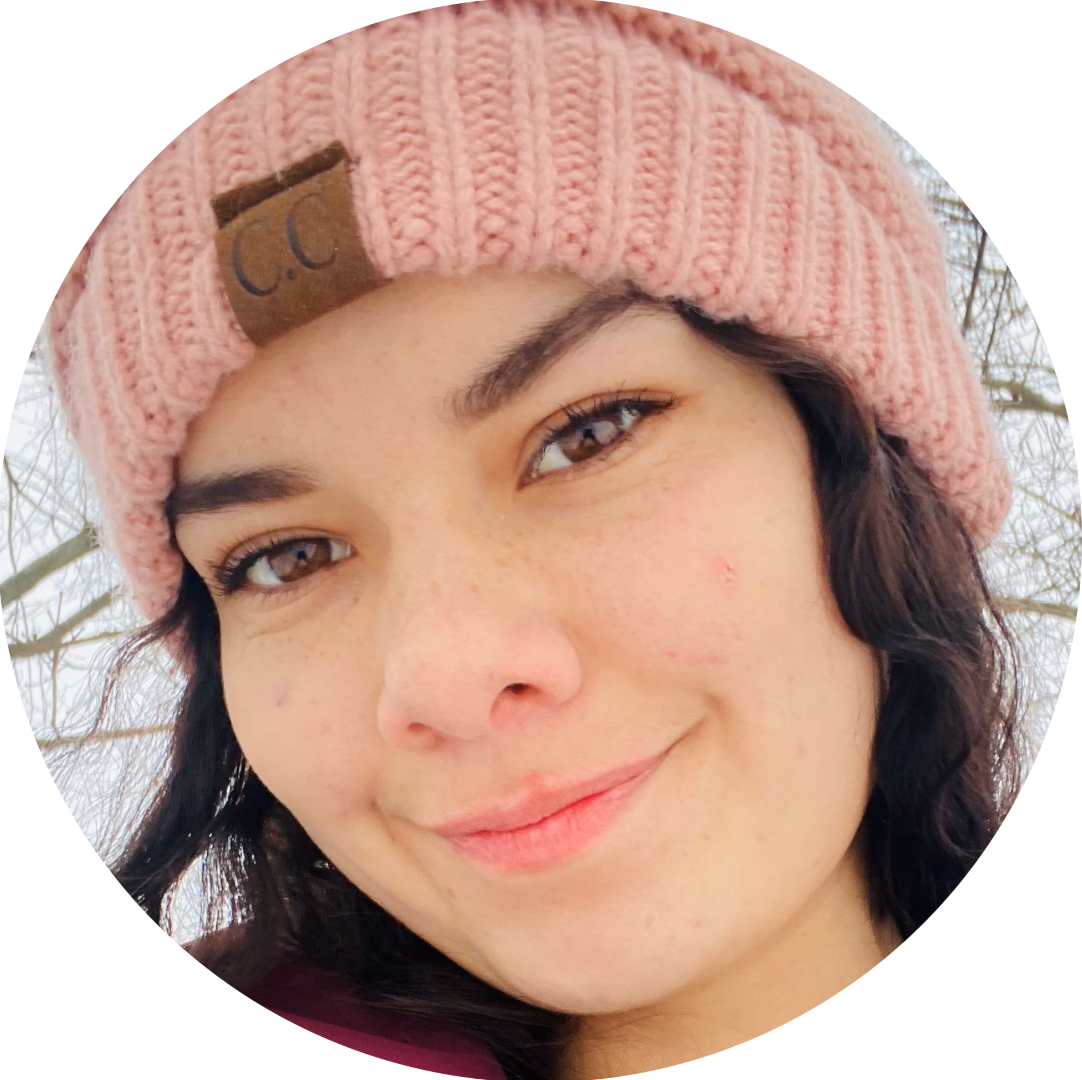
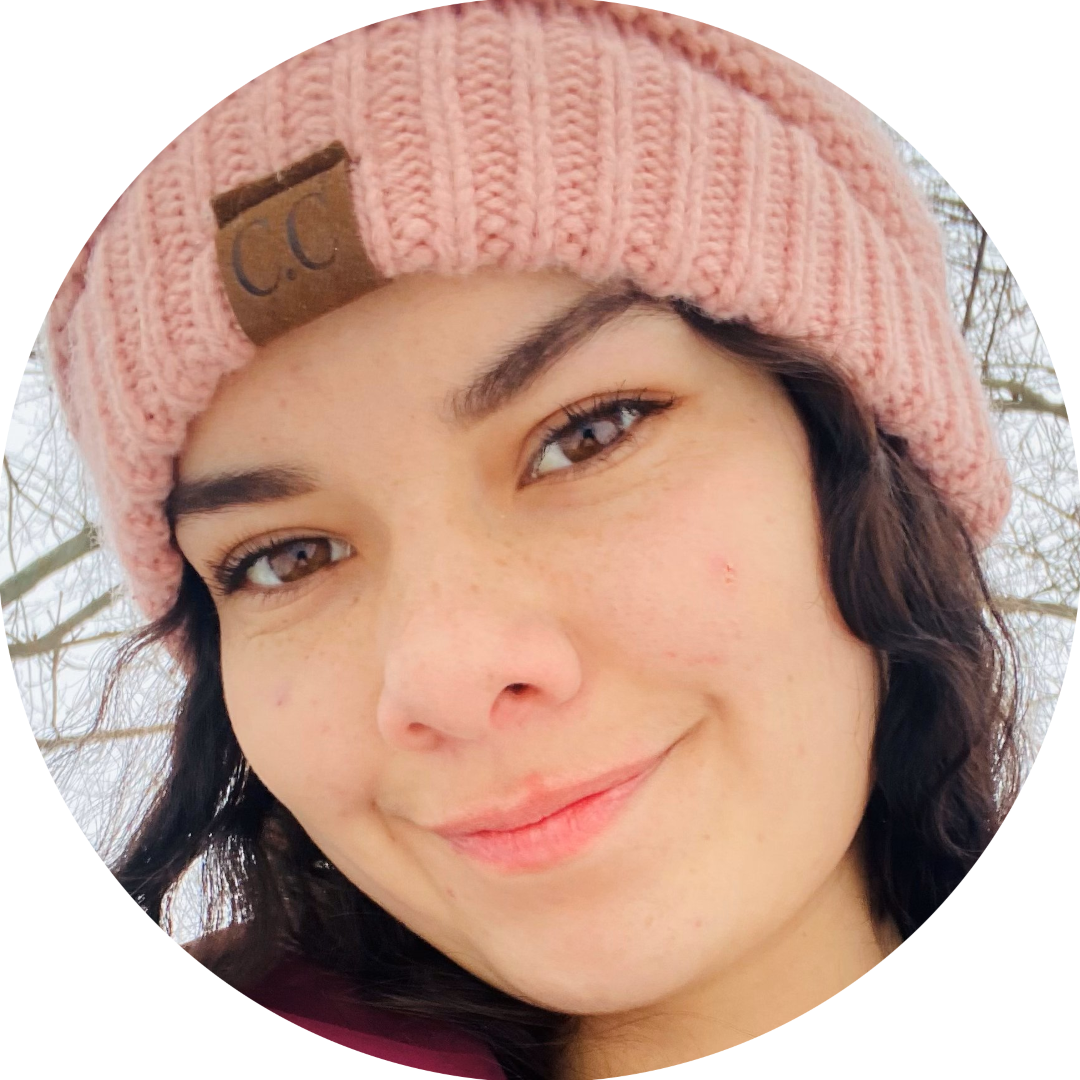
Fixed sizes

diff --git a/index.md b/index.md
@@ -9,7 +9,7 @@ The application will allow the vendor to keep track of the distribution of conta
 
 ### Jordan
 
-<img src="doc/Jordan.png" style="height: 400px">
+<img src="doc/Jordan.png">
 
 ### Micah
 <img src="doc/Micah.png">
@@ -21,7 +21,7 @@ The application will allow the vendor to keep track of the distribution of conta
 <img src="doc/Reynald.png">
 
 ### Elijah
-<img src="doc/Eli.png" style="height: 400px">
+<img src="doc/Eli.png">
 
 ## What is Zero Waste?
 <hr />
